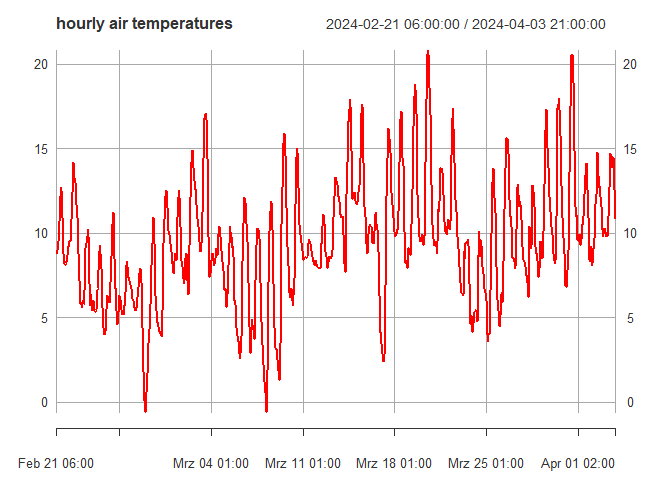
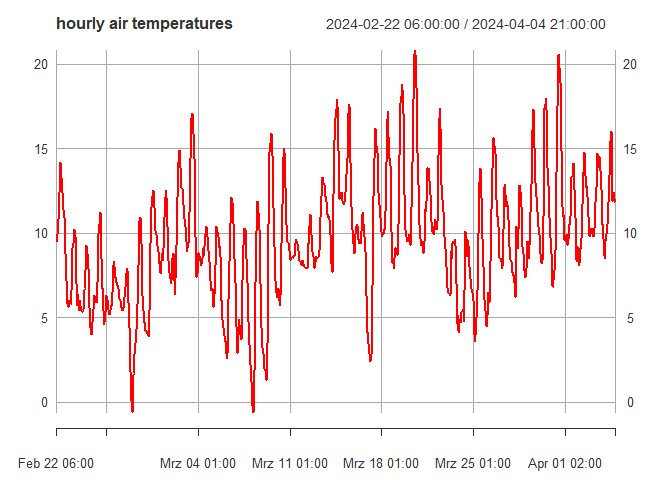
enh(get_measure): timestamp format
fixes #70

diff --git a/README.md b/README.md
@@ -19,7 +19,7 @@ and load the package via
 
 ``` r
 library(netatmo.weather)
-#> 0.5.11
+#> 0.5.12
 ```
 
 ## Getting Started
@@ -158,25 +158,25 @@ stations <- get_publicdata(ext = e1)
 #> /getpublicdata: Fetching stations from the following area: 6.89, 51.34, 7.13, 51.53 ...
 
 stations
-#> Simple feature collection with 306 features and 13 fields
+#> Simple feature collection with 305 features and 13 fields
 #> Geometry type: POINT
 #> Dimension:     XY
 #> Bounding box:  xmin: 6.890067 ymin: 51.34127 xmax: 7.129903 ymax: 51.52976
 #> Geodetic CRS:  WGS 84
-#> # A tibble: 306 × 14
+#> # A tibble: 305 × 14
 #>    status time_server         NAMain      timezone country altitude city  street
 #>  * <chr>  <dttm>              <chr>       <chr>    <chr>      <int> <chr> <chr> 
-#>  1 ok     2024-04-03 23:53:46 70:ee:50:0… Europe/… DE           111 Essen A 52  
-#>  2 ok     2024-04-03 23:53:46 70:ee:50:6… Europe/… DE           112 Essen Steel…
-#>  3 ok     2024-04-03 23:53:46 70:ee:50:0… Europe/… DE           114 Essen Steel…
-#>  4 ok     2024-04-03 23:53:46 70:ee:50:a… Europe/… DE           108 Essen Laure…
-#>  5 ok     2024-04-03 23:53:46 70:ee:50:a… Europe/… DE           108 Essen Eligi…
-#>  6 ok     2024-04-03 23:53:46 70:ee:50:0… Europe/… DE            60 Essen Hengl…
-#>  7 ok     2024-04-03 23:53:46 70:ee:50:a… Europe/… DE            69 Essen Notte…
-#>  8 ok     2024-04-03 23:53:46 70:ee:50:0… Europe/… DE            69 Essen Notte…
-#>  9 ok     2024-04-03 23:53:46 70:ee:50:3… Europe/… DE            77 Essen Lohmü…
-#> 10 ok     2024-04-03 23:53:46 70:ee:50:a… Europe/… DE           101 Essen Bochu…
-#> # ℹ 296 more rows
+#>  1 ok     2024-04-04 23:47:07 70:ee:50:0… Europe/… DE           111 Essen A 52  
+#>  2 ok     2024-04-04 23:47:07 70:ee:50:6… Europe/… DE           112 Essen Steel…
+#>  3 ok     2024-04-04 23:47:07 70:ee:50:0… Europe/… DE           114 Essen Steel…
+#>  4 ok     2024-04-04 23:47:07 70:ee:50:a… Europe/… DE           108 Essen Laure…
+#>  5 ok     2024-04-04 23:47:07 70:ee:50:a… Europe/… DE           108 Essen Eligi…
+#>  6 ok     2024-04-04 23:47:07 70:ee:50:0… Europe/… DE            60 Essen Hengl…
+#>  7 ok     2024-04-04 23:47:07 70:ee:50:a… Europe/… DE            69 Essen Notte…
+#>  8 ok     2024-04-04 23:47:07 70:ee:50:0… Europe/… DE            69 Essen Notte…
+#>  9 ok     2024-04-04 23:47:07 70:ee:50:5… Europe/… DE            76 Essen Lohdi…
+#> 10 ok     2024-04-04 23:47:07 70:ee:50:a… Europe/… DE           101 Essen Bochu…
+#> # ℹ 295 more rows
 #> # ℹ 6 more variables: mark <int>, n_modules <int>, NAModule1 <chr>,
 #> #   NAModule2 <chr>, NAModule3 <chr>, geometry <POINT [°]>
 ```
@@ -193,25 +193,25 @@ stations_tiled <- get_publicdata(ext = e1,
 #> /getpublicdata: Fetching stations from the following area: 6.89, 51.34, 7.13, 51.53 ...
 
 stations_tiled
-#> Simple feature collection with 628 features and 13 fields
+#> Simple feature collection with 624 features and 13 fields
 #> Geometry type: POINT
 #> Dimension:     XY
 #> Bounding box:  xmin: 6.890067 ymin: 51.34127 xmax: 7.129903 ymax: 51.52976
 #> Geodetic CRS:  WGS 84
-#> # A tibble: 628 × 14
+#> # A tibble: 624 × 14
 #>    status time_server         NAMain      timezone country altitude city  street
 #>    <chr>  <dttm>              <chr>       <chr>    <chr>      <int> <chr> <chr> 
-#>  1 ok     2024-04-03 23:54:42 70:ee:50:8… Europe/… DE            45 Essen Volck…
-#>  2 ok     2024-04-03 23:54:42 70:ee:50:7… Europe/… DE            46 Essen Eva-H…
-#>  3 ok     2024-04-03 23:54:42 70:ee:50:a… Europe/… DE            63 Essen Am Mö…
-#>  4 ok     2024-04-03 23:54:42 70:ee:50:a… Europe/… DE            93 Essen Senge…
-#>  5 ok     2024-04-03 23:54:42 70:ee:50:1… Europe/… DE            48 Essen Johan…
-#>  6 ok     2024-04-03 23:54:42 70:ee:50:a… Europe/… DE            57 Essen Marti…
-#>  7 ok     2024-04-03 23:54:42 70:ee:50:1… Europe/… DE            81 Essen Akade…
-#>  8 ok     2024-04-03 23:54:42 70:ee:50:7… Europe/… DE            61 Essen Haupt…
-#>  9 ok     2024-04-03 23:54:42 70:ee:50:7… Europe/… DE            61 Essen Haupt…
-#> 10 ok     2024-04-03 23:54:42 70:ee:50:7… Europe/… DE            66 Essen Eiche…
-#> # ℹ 618 more rows
+#>  1 ok     2024-04-04 23:48:03 70:ee:50:8… Europe/… DE            45 Essen Volck…
+#>  2 ok     2024-04-04 23:48:03 70:ee:50:7… Europe/… DE            46 Essen Eva-H…
+#>  3 ok     2024-04-04 23:48:03 70:ee:50:a… Europe/… DE            63 Essen Am Mö…
+#>  4 ok     2024-04-04 23:48:03 70:ee:50:a… Europe/… DE            93 Essen Senge…
+#>  5 ok     2024-04-04 23:48:03 70:ee:50:1… Europe/… DE            48 Essen Johan…
+#>  6 ok     2024-04-04 23:48:03 70:ee:50:a… Europe/… DE            57 Essen Marti…
+#>  7 ok     2024-04-04 23:48:03 70:ee:50:1… Europe/… DE            81 Essen Akade…
+#>  8 ok     2024-04-04 23:48:03 70:ee:50:7… Europe/… DE            61 Essen Haupt…
+#>  9 ok     2024-04-04 23:48:03 70:ee:50:7… Europe/… DE            61 Essen Haupt…
+#> 10 ok     2024-04-04 23:48:03 70:ee:50:7… Europe/… DE            66 Essen Eiche…
+#> # ℹ 614 more rows
 #> # ℹ 6 more variables: mark <int>, n_modules <int>, NAModule1 <chr>,
 #> #   NAModule2 <chr>, NAModule3 <chr>, geometry <POINT [°]>
 ```
@@ -235,17 +235,17 @@ To assist you with the latter going backwards from `Sys.time()`,
 # 5-minutely data
 p1 <- get_period(res = 5)
 as.POSIXct(p1, origin = "1970-01-01")
-#> [1] "2024-03-31 09:40:00 CEST" "2024-04-03 23:00:00 CEST"
+#> [1] "2024-04-01 09:40:00 CEST" "2024-04-04 23:00:00 CEST"
 
 # hourly data
 p2 <- get_period(res = 60)
 as.POSIXct(p2, origin = "1970-01-01")
-#> [1] "2024-02-21 06:00:00 CET"  "2024-04-03 23:00:00 CEST"
+#> [1] "2024-02-22 06:00:00 CET"  "2024-04-04 23:00:00 CEST"
 
 # querying the last 24 hours, maybe convenient for scheduled jobs
 p3 <- get_period("recent")
 as.POSIXct(p3, origin = "1970-01-01")
-#> [1] "2024-04-02 23:00:00 CEST" "2024-04-03 23:00:00 CEST"
+#> [1] "2024-04-03 23:00:00 CEST" "2024-04-04 23:00:00 CEST"
 
 # self-defined period
 p4 <- get_period(c("2024-03-01", "2024-04-01"))
@@ -263,7 +263,7 @@ obs <- get_measure(devices = stations_tiled[1:10, ],
                    period = p2, 
                    par = "temperature", 
                    res = 60)
-#> /getmeasure: Fetching temperature measurements (60 min) from 2024-02-21 to 2024-04-03 for 10 station(s) ...
+#> /getmeasure: Fetching temperature measurements (60 min) from 2024-02-22 06:00 CET to 2024-04-04 23:00 CEST for 10 station(s) ...
 
 class(obs)
 #> [1] "list"
@@ -283,7 +283,7 @@ class(xts)
 
 # inspect index range
 zoo::index(xts) |> range()
-#> [1] "2024-02-21 06:00:00 CET"  "2024-04-03 21:00:00 CEST"
+#> [1] "2024-02-22 06:00:00 CET"  "2024-04-04 21:00:00 CEST"
 
 # inspect index/coredata
 head(xts)
@@ -291,12 +291,12 @@ head(xts)
 #>   NOTE: set 'options(xts_check_TZ = FALSE)' to disable this warning
 #>     This note is displayed once per session
 #>                     temperature
-#> 2024-02-21 06:00:00         8.8
-#> 2024-02-21 07:00:00         8.8
-#> 2024-02-21 08:00:00         9.0
-#> 2024-02-21 09:00:00         9.5
-#> 2024-02-21 10:00:00         9.9
-#> 2024-02-21 11:00:00        10.7
+#> 2024-02-22 06:00:00         9.5
+#> 2024-02-22 07:00:00         9.5
+#> 2024-02-22 08:00:00         9.9
+#> 2024-02-22 09:00:00        10.8
+#> 2024-02-22 10:00:00        11.4
+#> 2024-02-22 11:00:00        12.4
 
 # inspect attribute names appended 
 attributes(xts) |> names() |> tail(-4)

diff --git a/NEWS.md b/NEWS.md
@@ -1,4 +1,4 @@
-# version 0.5.11
+# version 0.5.12
 
 ## features
 
